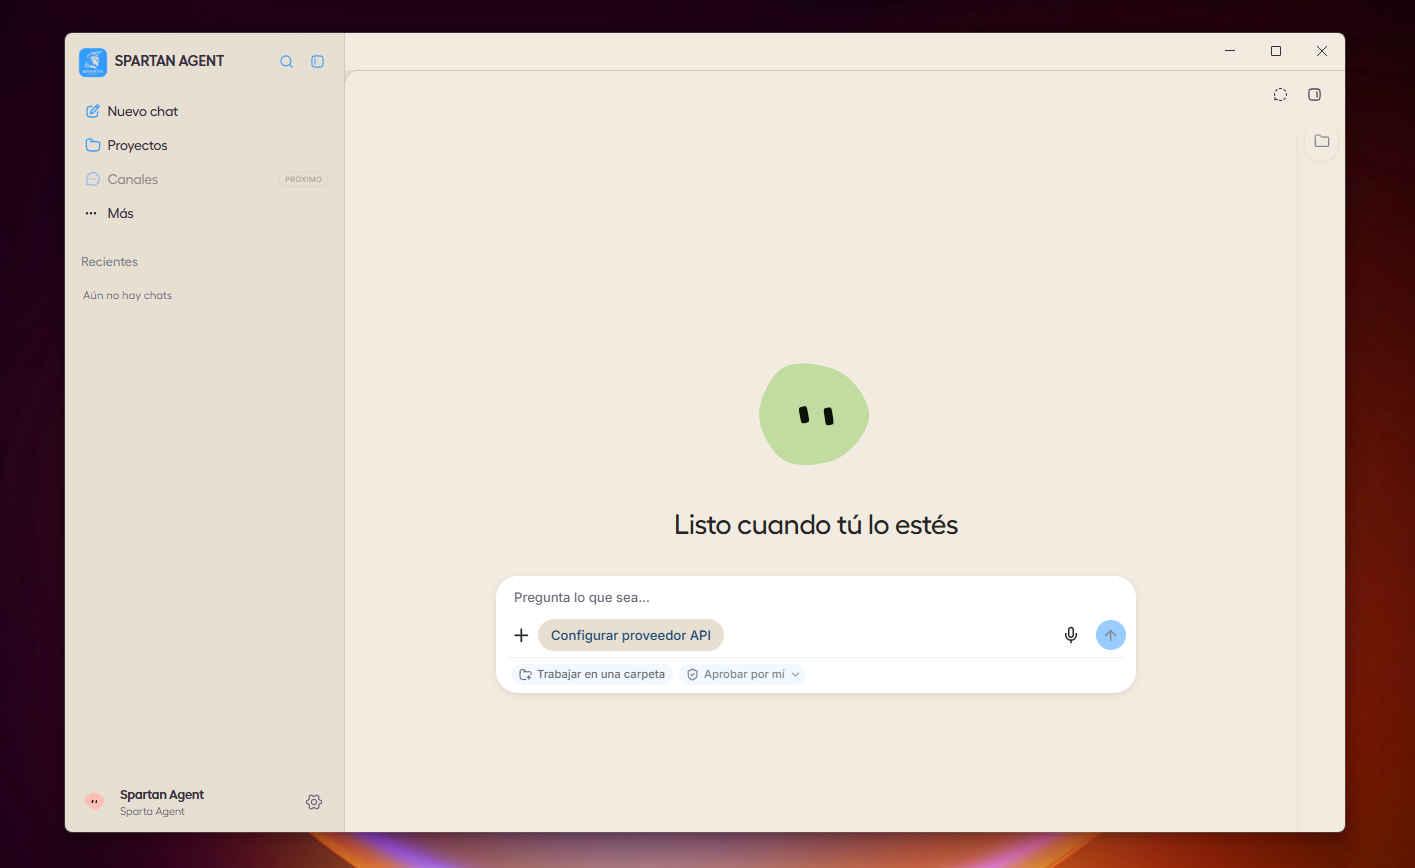
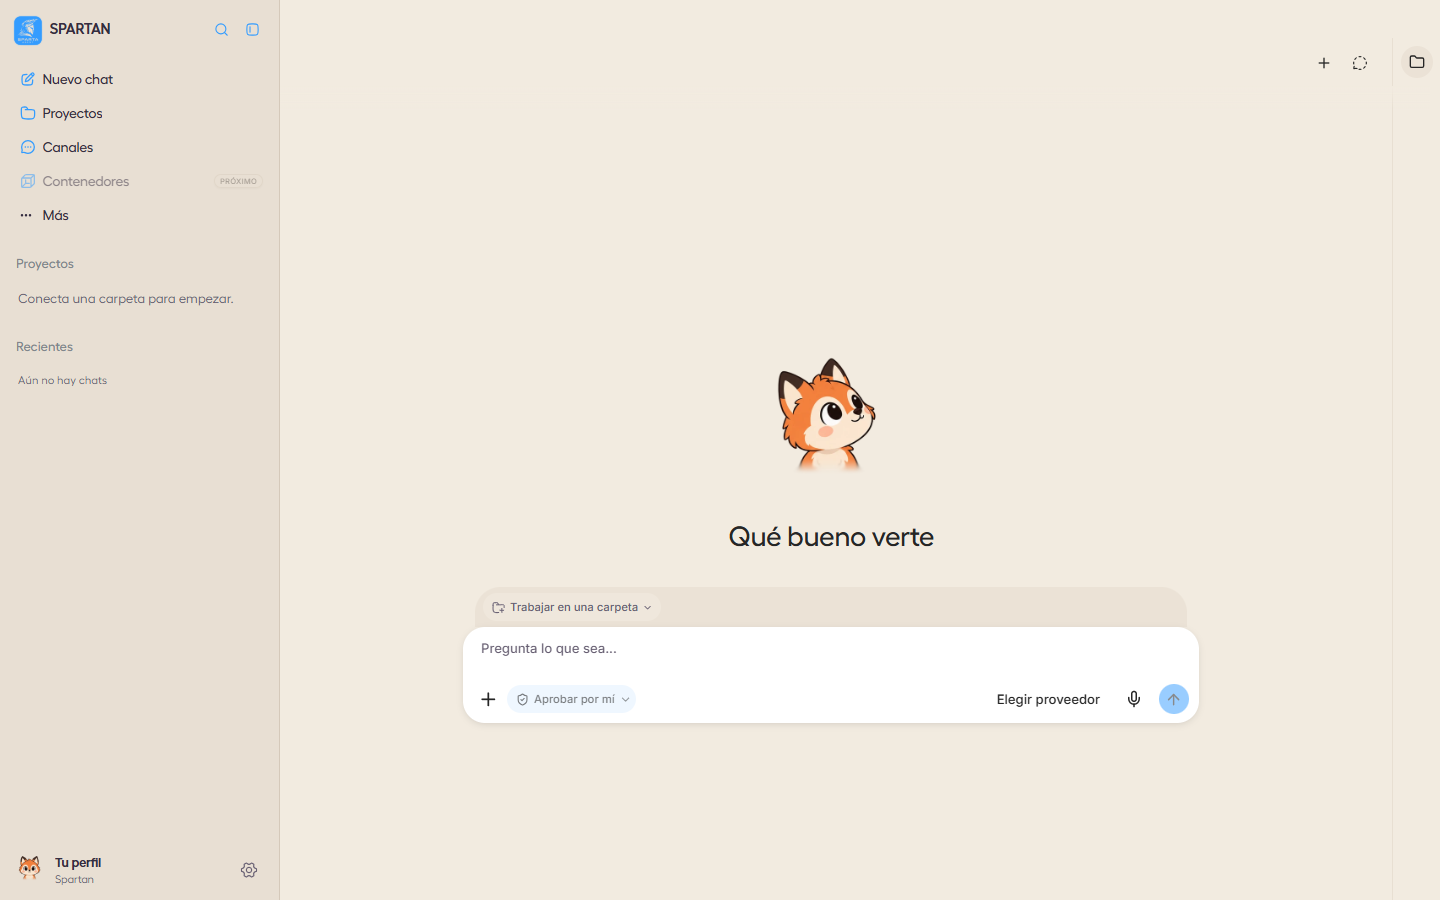
docs: refresh README product screenshot

diff --git a/docs/landing-docs/05-imagenes-y-recursos.md b/docs/landing-docs/05-imagenes-y-recursos.md
@@ -10,7 +10,7 @@ Revisa los archivos existentes antes de enlazarlos. Los nombres de capturas que 
 | `docs/assets/sparta-escritorio.png` | Logo cuadrado sobre fondo oscuro | Identidad; no es una captura del escritorio |
 | `docs/assets/sparta-contexto.png` | Recorte del composer | Explicar adjuntos y controles del composer; revisar que coincida con la UI actual antes de publicarlo |
 | `docs/assets/sparta-permisos.png` | Composición de permisos y composer | Explicar los modos de aprobación; validar las etiquetas frente a la versión documentada |
-| `landing/public/proyecto/SPARTAN-PRINCIPAL.png` | Mockup de estado vacío | Ilustrar el concepto de espacio de trabajo; no presentarlo como captura actual de una conversación |
+| `landing/public/proyecto/SPARTAN-PRINCIPAL.png` | Captura actual de la pantalla principal del chat | Mostrar la interfaz de escritorio con el saludo inicial, la barra lateral y el compositor de mensajes |
 | `landing/public/docs/memory-interface-sample.png` | Captura de la interfaz actual de Memoria | Mapa de recuerdos con registros ficticios; no contiene datos de una cuenta real |
 
 La landing reutiliza la captura actual de Memoria junto a su guía y en la demo. El texto alternativo y el pie aclaran que los registros son ficticios. No reutilizar las capturas antiguas del mapa de memoria: corresponden a iteraciones previas del diseño.

diff --git a/README.md b/README.md
@@ -14,7 +14,7 @@
 ---
 
 <div align="center">
-  <img src="landing/public/proyecto/SPARTAN-PRINCIPAL.png" alt="Entorno de Trabajo Sparta Agent" width="100%" style="border-radius: 8px; border: 1px solid rgba(255, 255, 255, 0.1);" />
+  <img src="landing/public/proyecto/SPARTAN-PRINCIPAL.png" alt="Pantalla principal del chat de Sparta Agent" width="100%" style="border-radius: 8px; border: 1px solid rgba(255, 255, 255, 0.1);" />
 </div>
 
 ---
